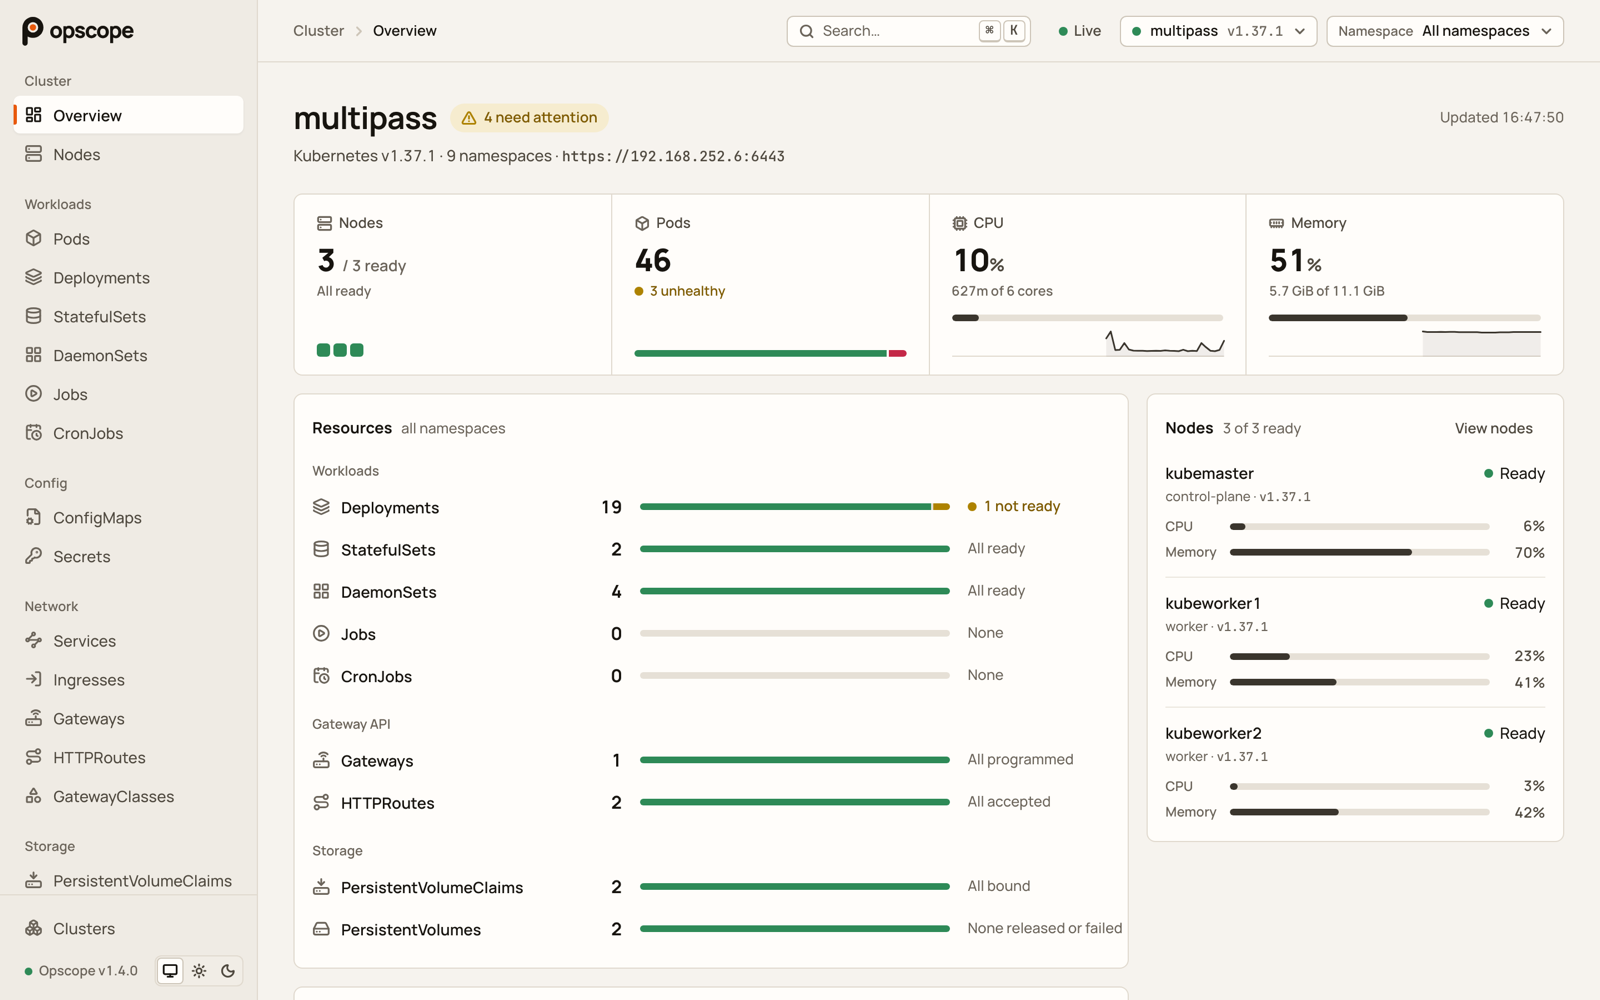
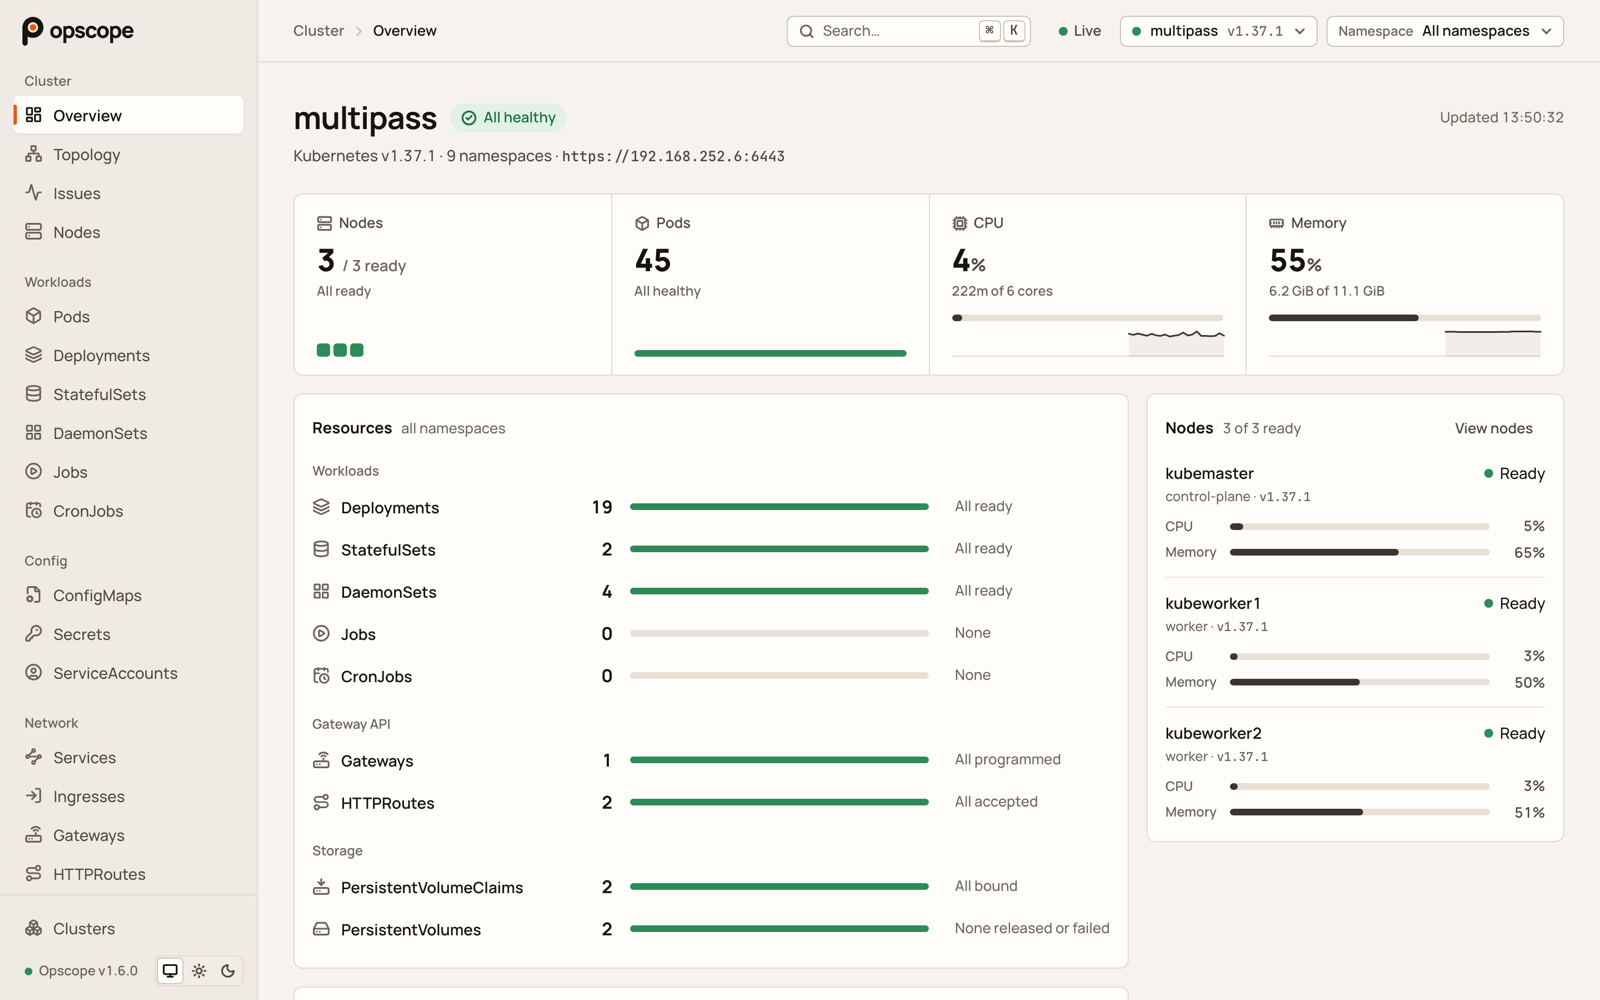
Check the release again and retake two screenshots
- The overview's screenshots dated from v1.4 and showed the overflow just
  fixed; taken again on multipass, stamped v1.6.0.
- The map around one object dated from v1.5, without health; it's now a
  namespace map on kind with a failing Deployment selected, its panel
  showing its health, issues and links. The README's alt text says so.
- Design record: the release check, and that the last three changes
  reach main in a second pull request, #24 having been merged first.

diff --git a/README.md b/README.md
@@ -193,7 +193,7 @@ Shortcuts are ignored while you type in a field.
 | --- | --- |
 | <picture><source media="(prefers-color-scheme: dark)" srcset="docs/screenshots/pods-dark.png"><img src="docs/screenshots/pods-light.png" alt="The pods list, with status, readiness, restarts and live usage"></picture> | <picture><source media="(prefers-color-scheme: dark)" srcset="docs/screenshots/pod-dark.png"><img src="docs/screenshots/pod-light.png" alt="A crash-looping pod's detail page: facts, containers and conditions"></picture> |
 | **Topology of a namespace** | **Around one object** |
-| <picture><source media="(prefers-color-scheme: dark)" srcset="docs/screenshots/topology-dark.png"><img src="docs/screenshots/topology-light.png" alt="The Topology map of a namespace: a GatewayClass, Gateway and HTTPRoutes sending traffic to Services, which select the pods of their Deployments"></picture> | <picture><source media="(prefers-color-scheme: dark)" srcset="docs/screenshots/topology-object-dark.png"><img src="docs/screenshots/topology-object-light.png" alt="The map around a crash-looping Deployment, two steps away: its ReplicaSets and pods, the ConfigMap and Secrets they use, and the panel listing what it needs and the field each connection was read from"></picture> |
+| <picture><source media="(prefers-color-scheme: dark)" srcset="docs/screenshots/topology-dark.png"><img src="docs/screenshots/topology-light.png" alt="The Topology map of a namespace: a GatewayClass, Gateway and HTTPRoutes sending traffic to Services, which select the pods of their Deployments"></picture> | <picture><source media="(prefers-color-scheme: dark)" srcset="docs/screenshots/topology-object-dark.png"><img src="docs/screenshots/topology-object-light.png" alt="The Topology map of a namespace with its failing and degraded cards marked, and a failing Deployment selected: its panel says it's failing, lists its three issues, links to its page and to the pod it owns, and says which field each connection was read from"></picture> |
 | **Issues** | **A failing Deployment's page** |
 | <picture><source media="(prefers-color-scheme: dark)" srcset="docs/screenshots/issues-dark.png"><img src="docs/screenshots/issues-light.png" alt="The Issues page of a namespace, worst first: a crash loop open to show what it was read from, with its log showing connection refused, then a route to a missing Service, a Service with no ready endpoints, an image that can't be pulled and more"></picture> | <picture><source media="(prefers-color-scheme: dark)" srcset="docs/screenshots/issue-detail-dark.png"><img src="docs/screenshots/issue-detail-light.png" alt="A Deployment's detail page marked Failing, with its two issues first: its rollout stopped, and no replica is ready"></picture> |
 | **PersistentVolumeClaims** | **A claim's detail page** |

diff --git a/docs/design/issues.md b/docs/design/issues.md
@@ -25,7 +25,7 @@ build phases 0–8 or the D, G, L, P, R, S and T phases. All work happens on the
 one commit per phase, as in v1.4 and v1.5. Each phase is reviewed before it is committed, and the
 next phase starts only after that.
 
-**Status (2026-11-18):** done, released in v1.6.0.
+**Status (2026-11-22):** done, released in v1.6.0.
 
 **Legend:** `[x]` done · `[ ]` not done yet · `[~]` partly done or changed (see notes)
 
@@ -913,3 +913,18 @@ Goal: v1.6.0 is ready to tag.
     (Persistent·Volume·Claims) rather than run into its count, and a state wraps only when it
     still doesn't fit. Checked on multipass (read-only) and kind at 1024, 900, 768 and 375 px,
     light and dark: no row past the card, names and states lined up with the group titles.
+  - These three went to `docs/issues` after pull request #24 had been merged at `79ae5bb`
+    (2026-11-19), so they reach `main` in a second pull request from the same branch, before
+    the tag.
+- **Release check (2026-11-22).** Every phase's list ticked, each `[~]` explained in its notes;
+  the version in the manifest, its URLs, the image tag table, the health example and the bug
+  report placeholder all v1.6.0, and `check-manifest-tag.sh v1.6.0` passes; `go vet`, `gofmt`,
+  `go test -race ./...`, `npm ci`, 162 frontend tests and the build; CI green on #24; no open
+  issues (one Dependabot pull request, #21, a `docker/login-action` bump, left to the
+  maintainer). **Screenshots retaken:** the overview's dated from v1.4 (stamped v1.4.0, before
+  the issue counts, and showing the overflow fixed above), taken again on multipass, which is
+  healthy now. The map around one object dated from v1.5, without health: it's now the
+  `issues-test` map on kind with the failing Deployment `no-config` selected, its panel showing
+  its health, its three issues and its links. Taken as before, stamped v1.6.0. The namespace
+  map, pods and storage screenshots show nothing v1.6 changed and are kept. The release notes
+  mention the panel's links and the warnings' state.
